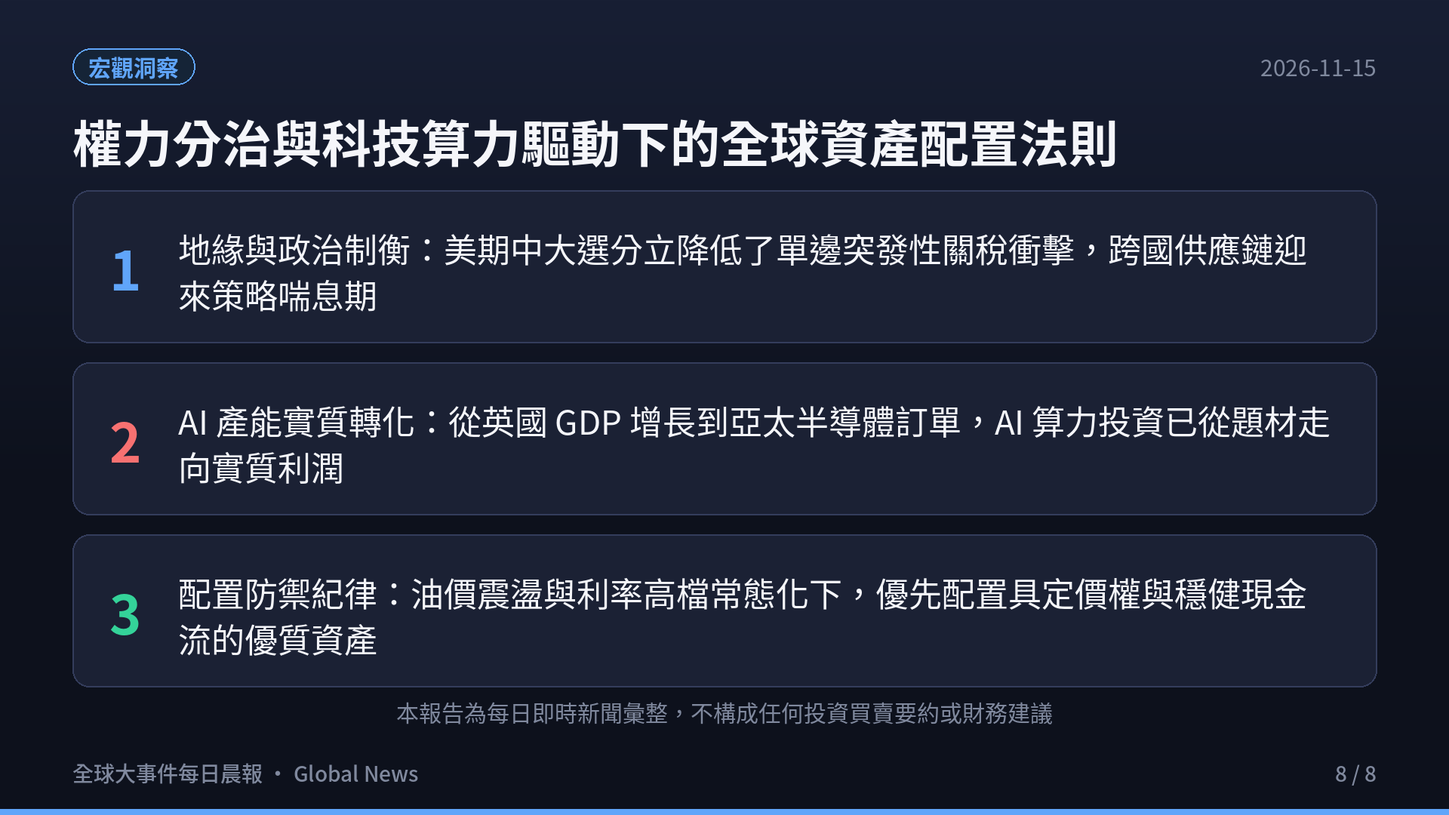
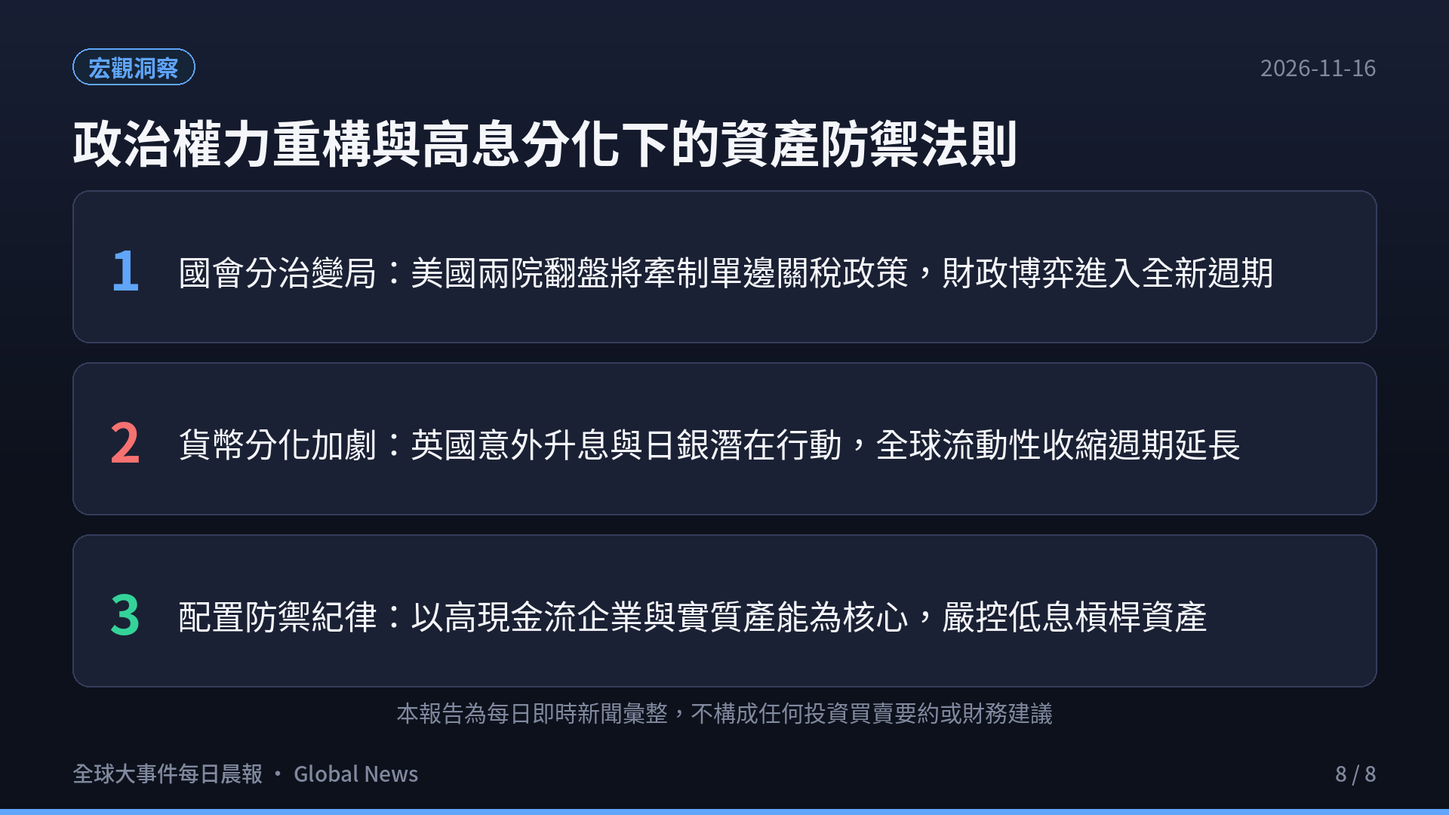
feat(blog): add global news daily report 2026-11-16 with slides and video

diff --git a/content/global-news/index.md b/content/global-news/index.md
@@ -1,26 +1,26 @@
 ---
-title: "全球大事件每日晨報 · 2026-11-15：美期中選國會分立・G7巴黎外長會晤・深圳APEC倒數・西班牙大罷工・十大經濟體全景"
+title: "全球大事件每日晨報 · 2026-11-16：美期中選藍潮翻盤兩院・英央行升息至4%・俄伊導彈密件曝光・加國千億預算"
 url: "/global-news/"
-date: 2026-11-15T05:30:00+08:00
+date: 2026-11-16T05:30:00+08:00
 draft: false
 image: cover.png
 cover: "https://ckw19810413.github.io/global-news/cover.png"
-description: "2026-11-15 全球重大事件深度解析：美洲期中大選國會分治、美中峰會前建立 AI 安全通報機制、G7 巴黎外長會議聚焦防務與航道安全、西班牙爆發 14 年首次全國總罷工、深圳籌備第 33 屆 APEC 峰會、英國 AI 資本支出帶動第三季 GDP 超預期增長 0.7%、COP31 安塔利亞氣候峰會談判轉型基金，以及全球前十大經濟體核心總體數據橫向評比。"
-tags: ["全球大事件", "國際局勢", "期中選舉", "APEC", "G7", "西班牙罷工", "AI投資", "總體經濟", "每日晨報", "地緣政治", "聯準會", "歐洲央行"]
+description: "2026-11-16 全球重大事件深度解析：美洲民主黨贏得期中大選奪回兩院、道瓊暴漲千點、英國央行升息至 4%、歐洲連環航班炸彈威脅排查、俄伊 90 具先進飛彈軍援密件曝光、加拿大公布 1510 億預算案、巴拉圭總統因銀行風暴請辭、亞洲製造業微幅回溫，以及全球前十大經濟體核心總體數據橫向評比。"
+tags: ["全球大事件", "國際局勢", "期中選舉", "美股", "英國升息", "歐洲航班", "俄伊密件", "荷姆茲海峽", "加拿大預算", "日銀升息", "總體經濟"]
 categories: ["國際局勢", "總體經濟"]
 aliases:
-  - "/blog/2026-11-15-global-news/"
-  - "/global-news/2026-11-15/"
+  - "/blog/2026-11-16-global-news/"
+  - "/global-news/2026-11-16/"
 ---
 
-> **觀測週期**：2026-11-15 晨間即時彙整  
-> **情報涵蓋**：全球各大洲（北美、歐洲、亞太/印太、中東、拉丁美洲、大洋洲）與全球前 10 大經濟體  
-> **核心來源**：各國政府公報、路透社（Reuters）、美聯社（AP）、英國衛報（The Guardian）、各國央行公報、IMF 經濟展望與 S&P Global 報告  
+> **觀測週期**：2026-11-16 晨間即時彙整  
+> **情報涵蓋**：全球各大洲（北美、歐洲、中東、亞洲/印太、拉美、大洋洲）與全球前 10 大經濟體  
+> **核心來源**：各國政府公報、路透社（Reuters）、美聯社（AP）、英國衛報（The Guardian）、各國央行公報與 S&P Global PMI 報告  
 > **定位宗旨**：以客觀數據、官方決策與供應鏈結構為準繩，剔除短期情緒噪音，提煉出真正驅動全球資金流向與地緣版圖重構的核心脈絡。
 
 <div style="margin: 2rem 0; border-radius: 12px; overflow: hidden; box-shadow: 0 4px 20px rgba(0,0,0,0.12); border: 1px solid rgba(128,128,128,0.2);">
   <div style="position: relative; padding-bottom: 56.25%; height: 0; overflow: hidden; background: #0f121c;">
-    <iframe src="https://www.youtube.com/embed/H_yaa3bq8DQ" title="2026-11-15 全球大事件每日晨報" style="position: absolute; top:0; left: 0; width: 100%; height: 100%; border: 0;" allow="accelerometer; autoplay; clipboard-write; encrypted-media; gyroscope; picture-in-picture; web-share" allowfullscreen></iframe>
+    <iframe src="https://www.youtube.com/embed/8dBGynLkzXU" title="2026-11-16 全球大事件每日晨報" style="position: absolute; top:0; left: 0; width: 100%; height: 100%; border: 0;" allow="accelerometer; autoplay; clipboard-write; encrypted-media; gyroscope; picture-in-picture; web-share" allowfullscreen></iframe>
   </div>
   <div style="background: rgba(0,0,0,0.03); padding: 10px 16px; font-size: 0.9rem; color: var(--card-text-color-secondary, #666); text-align: center; border-top: 1px solid rgba(128,128,128,0.15);">
     🎬 <strong>120 秒晨間快報影音動態版</strong>（含 AI 自然神經語音朗讀與背景配樂）
@@ -31,82 +31,81 @@ aliases:
 
 ## 🎯 今日全球前 6 大核心事件深度拆解
 
-![焦點 1：美國期中大選兩院分立，美中前瞻磋商AI安全機制](s02.png)
+![焦點 1：美國期中大選藍潮翻盤，民主黨奪回兩院控制權](s02.png)
 
-### 1. 美洲局勢與跨太平洋外交互動：美期中大選確立國會分治格局，美中在峰會前夕磋商 AI 事故通報機制
-- **國會分治格局確立與單邊極端法案受阻**：
-  - 美國期中大選計票塵埃落定，參眾兩院呈現權力分治與微弱多數平衡格局。這意味著未來兩年華府在極端單邊關稅、跨國貿易協定審查與激進財政赤字法案上將面臨實質立法掣肘。
-  - 華爾街股市與債券市場迅速重估風險溢價，長端美債殖利率回吐部分避險溢價，反映市場對極端政策不確定性降溫的寬慰。
-- **美中 AI 安全機制與峰會前瞻對話**：
-  - 在即將召開的亞太高層雙邊互動前，美中工作小組就人工智慧（AI）軍事防護與突發事件通報框架展開實質磋商，旨在降低高科技競爭與前沿演算法部署中的意外摩擦風險。
-  - 此舉為雙方經貿與供應鏈對話注入了務實的「風險護欄」，釋放跨太平洋戰略穩定的積極訊號。
-
----
-
-![焦點 2：G7外長巴黎聚焦地緣安全，西班牙爆發十四年首度總罷工](s03.png)
-
-### 2. 歐洲安全協調與社會結構摩擦：G7 外長齊聚巴黎磋商防務，西班牙爆發 14 年來首次全面大罷工
-- **G7 外長巴黎會晤與防務協作深化**：
-  - 七大工業國（G7）外長攜手巴西、沙烏地阿拉伯及烏克蘭高級代表在巴黎舉行高級安全會談，集中協調對中東航運走廊的聯合安全護航及歐洲關鍵基礎設施防護機制。
-  - 歐洲央行（ECB）總裁拉加德宣布將於 2027 年初卸任，提前拉開了歐洲央行最高決策層的接班競逐序幕，但貨幣政策短期維持限制性高息以壓抑通膨回潮。
-- **南歐居住成本壓力引發大罷工**：
-  - 西班牙遭遇 14 年來首次跨行業全國性總罷工，數十萬民眾走上街頭抗議房價與租金暴漲、實質薪資停滯以及公共醫療資源吃緊。
-  - 罷工使大眾交通與港口物流行程嚴重受阻，對即將舉行的提前大選選情產生直接衝擊，凸顯歐洲長期通膨黏性對民生基底的深層侵蝕。
+### 1. 美洲政局與資本市場：美國期中選舉藍潮掀天翻地覆，民主黨重奪兩院掌控權，道瓊狂飆千點
+- **兩院版圖大翻盤與行政掣肘**：
+  - 美國期中大選計票塵埃落定，民主黨成功掀起「藍色浪潮」，一舉擊敗共和黨，同時奪回參議院與眾議院的絕對多數席次。
+  - 川普總統面臨任期後兩年的重大國會掣肘，白宮發言人隨後表態願與新國會多數展開跨黨派合作。此結果大幅降低了單邊全面徵收高額行政關稅的極端立法風險。
+- **資本市場暴力狂歡與避險消退**：
+  - 華爾街股市迎來狂歡式反彈，道瓊工業指數單日暴漲逾 1,500 點；與此同時，地緣避險溢價迅速回吐，國際原油期貨價格重挫回落。
+  - 聯準會利率目標區間維持在 3.75%–4.00%，市場預期分裂國會將遏制過度擴張性的財政赤字刺激，減輕後續通膨二次抬頭的風險。
 
 ---
 
-![焦點 3：深圳即將主辦 APEC 峰會，印太高科技供應鏈展現韌性](s04.png)
+![焦點 2：英國央行升息至 4%，歐洲航班驚傳連環炸彈威脅](s03.png)
 
-### 3. 亞太經合盛會與高科技動能：深圳即將迎來第 33 屆 APEC 峰會，英國受 AI 投資拉動 Q3 GDP 增長 0.7%
-- **第 33 屆 APEC 峰會於深圳倒數啟幕**：
-  - 亞太經合組織（APEC）領袖會議將於 11 月 18 至 19 日在深圳隆重舉行。作為中國改革開放與前沿科技的核心樞紐，深圳將見證多國元首圍繞「亞太命運共同體、區域自由貿易與綠色數位轉型」展開深度談判。
-  - 中國藉此主場外交平台強化與東協、拉美及「全球南方」的新型夥伴關係，加速高技術綠色產能出海佈局。
-- **AI 算力投資化為實質 GDP 增長**：
-  - 最新經濟數據顯示，英國第三季 GDP 季增率達 **0.7%**（年化近 1.9%），超出市場普遍預期。主要增長引擎來自企業對雲端計算、專業諮詢與 AI 資料中心基礎建設的爆發式資本支出。
-  - 這印證了生成式 AI 投資正在從實驗室原型轉化為帶動現代服務業與生產力提升的實體動能。
-
----
-
-![焦點 4：國際油價於百元關卡震盪，安塔利亞 COP31 聚焦轉型融資](s05.png)
-
-### 4. 中東能源博弈與全球氣候議程：油價百元關卡高位震盪，COP31 聯合國氣候峰會安塔利亞爭奪綠色基金
-- **中東航運地緣溢價與能源供應博弈**：
-  - 荷姆茲海峽與紅海周邊的安全緊張態勢維持高檔，主要海運巨頭持續採取繞行好望角與額外保險加成措施。布蘭特原油價格在每桶 90 至 110 美元高位區間劇烈波動。
-  - 國際貨幣基金組織（IMF）警告，高能源成本使得全球 headline 通膨回落進程放緩，各國央行在 2026 年底前重啟降息週期的門檻顯著拉高。
-- **COP31 氣候大會聚焦新融資目標**：
-  - 聯合國氣候變化大會（COP31）在土耳其安塔利亞如火如荼展開，超過 190 國代表就後巴黎協定時期的「全球氣候金融集體量化新目標（NCQG）」進行激烈博弈。
-  - 發展中國家強烈呼籲已開發經濟體落實每年數千億美元的能源轉型基金與技術轉移承諾，碳邊境調整機制（CBAM）與全球碳定價標準成為焦點爭端。
+### 2. 歐洲貨幣與航空安全：英格蘭銀行升息一碼至 4.0%，全歐二十餘航班遭遇虛假炸彈威脅緊急排查
+- **英國央行逆勢緊縮打擊通膨**：
+  - 英國央行（Bank of England）在 11 月議息會議宣布將基準利率上調 25 個基點至 **4.0%**，以壓制最新反彈至 3.5% 的核心消費者物價指數（CPI）。
+  - 標普全球（S&P Global）數據顯示，企業在人工智慧（AI）與雲端科技的資本支出推動英國服務業 PMI 躍升至八個月新高 52.8，但服務業工資黏性仍促使央行維持強硬立場。
+- **歐洲民航遭遇系統性虛假警報衝擊**：
+  - 全歐洲境內超過 21 架次國際商業航班遭遇協同性質的連環炸彈威脅，多座主要國際機場被迫緊急暫停起降並引導客機實施跑道滑行隔離搜查。
+  - 歐盟交通運輸專員已緊急聯手各國情報與航空安全局展開跨國溯源調查。
 
 ---
 
-![焦點 5：全球前十大經濟體核心指標與趨勢](s06.png)
+![焦點 3：俄伊導彈軍援密件曝光，荷姆茲海峽受損船隻引戒備](s04.png)
 
-### 5. 全球前十大經濟體核心指標與趨勢橫向全景
+### 3. 中東防務與航運樞紐：烏情報曝俄向伊朗提供 90 具先進導向飛彈發射器，荷姆茲海峽受損船隻引發航運警戒
+- **俄伊戰略軍事技術合作文件外洩**：
+  - 烏克蘭情報部門獲取並經外媒確認的洩密防務文件顯示，俄羅斯已與伊朗達成協議，向德黑蘭提供 90 具先進 LMUR 直升機發射型精確導引飛彈系統，並持續提供軍用級衛星定位與目標偵察數據。
+  - 此舉被視為俄伊戰略夥伴關係的實質升級，引發美國五角大廈與中東盟邦對波斯灣軍事平衡的高度戒備。
+- **波斯灣與荷姆茲海峽航行警戒持續**：
+  - 伊朗伊斯蘭革命衛隊（IRGC）報告波斯灣荷姆茲海峽水域發生零星船隻受損事件，國際航運龍頭馬士基（Maersk）等持續啟動緊急應變規避指引，區域海上保險費率維持高檔。
 
-| 排名 | 國家 / 經濟體 | 核心總體經濟數據 / 最新指標 | 2026-11-15 即時動態與政策取向 | 全球產業鏈與市場意涵 |
+---
+
+![焦點 4：加拿大公布千億預算案，巴拉圭總統因銀行風暴請辭](s05.png)
+
+### 4. 美洲與拉美震盪：加拿大推出 1510 億產能擴張預算，巴拉圭爆發銀行擠兌危機總統培尼亞請辭
+- **加拿大 2026 年度聯邦預算拍板**：
+  - 加拿大財政部長商鵬飛（François-Philippe Champagne）在總理馬克·卡尼（Mark Carney）內閣下發表高達 1,510 億加幣的第二任期聯邦預算案。
+  - 預算核心著重於大規模拉動私人資本投資、改善國家生產力瓶頸，並緩解家庭生活成本壓力，同時為美加可能出現的新一輪貿易摩擦築起防禦緩衝。
+- **南美爆發金融擠兌引發政局崩盤**：
+  - 南美洲巴拉圭大型商業銀行突發性流動性崩潰，引發全境數百萬民眾恐慌性排隊擠兌與街頭混亂。
+  - 在眾議院即將通過彈劾案前夕，巴拉圭總統聖地牙哥·培尼亞（Santiago Peña）正式宣布辭職，南美新興市場主權風險溢價隨之上升。
+
+---
+
+![焦點 5：亞洲製造業景氣微幅回溫，日銀維持 1.25% 利率](s06.png)
+
+### 5. 亞洲工廠動能與印太安保：亞洲製造業獲科技需求支撐，日銀按兵不動醞釀升息，北韓試射防空導彈
+- **亞洲供應鏈展現韌性**：
+  - 日本綜合採購經理人指數（Composite PMI）錄得 52.1，寫下連續第 19 個月保持在擴張區間的穩健紀錄，科技與半導體周邊設備需求提供主要支撐。
+  - 中國 RatingDog / S&P 合作發布的民間製造業 PMI 穩守 50 榮枯線之上，儘管銅冶煉廠面臨副產品硫酸價格暴跌帶來的利潤擠壓，高技術產品外銷仍具支撐力。
+- **印太安全情勢與東北亞動態**：
+  - 日本央行在貨幣政策決議中以 8 比 1 投票結果維持基準利率在 1.25% 不變，但總裁植田和男再次暗示若物價符合預期，年底或 2027 年初將進一步實施貨幣政策正常化。
+  - 北韓官方宣布成功完成新型防空飛彈與巡弋飛彈的多模式導向性能測試，美韓軍事同盟啟動動態警戒應對。
+
+---
+
+![焦點 6：全球前十大經濟體核心指標與趨勢](s07.png)
+
+### 6. 全球前十大經濟體核心指標與趨勢橫向全景
+
+| 排名 | 國家 / 經濟體 | 核心總體經濟數據 / 最新指標 | 2026-11-16 即時動態與政策取向 | 全球產業鏈與市場意涵 |
 |:---:|:---|:---|:---|:---|
-| **1** | **美國 (USA)** | 基準利率 **3.75%–4.00%** · 通膨 **3.6%** | 期中大選兩院分治；美中磋商 AI 事故通報；美股科技板塊走揚 | 國會分立降低激進關稅衝擊，AI 資本支出維持強韌，長端殖利率重回基本面定價。 |
-| **2** | **中國 (China)** | 主辦深圳 **APEC** · 外銷動能穩健 | 深圳峰會啟幕在即，推進高科技出海與全球南方貿易互利 | 數位經濟與高端製造業產能展現抗逆力，內需刺激政策進入政策評估落地期。 |
-| **3** | **德國 (Germany)** | 歐洲央行存款利率 **2.50%** · 工業轉型 | 傳統車企加速向 AI 自駕與新電池轉型；參與 G7 巴黎防務協調 | 工業體系積極對沖高能源成本，深耕智慧自動化與綠色氫能基礎建設。 |
-| **4** | **日本 (Japan)** | 推進 **FOIP** 印太佈局 · 政策利率 **1.25%** | 高市內閣深化東南亞基建安全合作；日銀審慎評估進一步升息節奏 | 日圓套息交易處於動態再平衡，半導體材料與先進設備出口訂單持續攀升。 |
-| **5** | **印度 (India)** | GDP 預測成長 **6.8%** · 通膨 **5.1%** | 關鍵礦產與電子代工樞紐崛起；平衡 Quad 與多元大國關係 | 跨國供應鏈「China+1」最大受益者，內需人口紅利與基建投資動能強勁。 |
-| **6** | **英國 (UK)** | Q3 GDP **+0.7%** · 基準利率 **4.0%** | AI 雲端資本支出推動 GDP 超預期；英格蘭銀行維持審慎觀望 | 專業服務業與數位科技領跑歐洲，但冬季能源帳單壓力仍需央行維持防禦性高息。 |
-| **7** | **法國 (France)** | 歐洲央行存款利率 **2.50%** · G7 會晤主辦 | 馬克宏政府力推歐洲防務戰略自主；關注拉加德後續接班格局 | 聚焦高階航太、核能與綠色技術，積極在歐盟預算與主權債務協商中爭取主導。 |
-| **8** | **義大利 (Italy)** | 歐元區統一利率 **2.50%** · 國債監控 | 歐盟復甦基金落實率提升；綠色基建與地中海能源管線推進 | 嚴格維持財政紀律以防國債利差擴大，得益於地中海能源過渡樞紐戰略定位。 |
-| **9** | **加拿大 (Canada)** | 1510 億產能預算 · 戰略礦產開發 | 卡尼內閣推進生產力提振專案；防範美選後北美貿易協定變更 | 關鍵鋰、鎳等戰略金屬與乾淨能源吸引美歐長約，築高貿易防護緩衝。 |
-| **10** | **澳洲 (Australia)** | 基準利率 **4.35%** · 大宗商品順差 | 澳洲央行維持限制性高息；大宗鐵礦與天然氣出口強勁；參與 COP31 | 能源轉型關鍵原料供應大國，商品貿易順差為抗擊通膨提供堅實後盾。 |
-
----
-
-![焦點 6：歐陸抗壓轉型與資源國動能](s07.png)
-
-### 6. 歐陸抗壓轉型與資源國韌性：德法工業調整推進，加澳資源紅利對沖全球宏觀震盪
-- **歐洲核心工業軸心的智慧韌性**：
-  - 德國與法國作為歐元區雙引擎，在面對高利率與高能源成本的常態化環境下，正加速將國家資源向人工智慧工業應用、電網智慧升級與國防安全自主化集中。
-  - 歐洲央行將在 12 月議息會議面臨拉加德任期尾聲的關鍵決策，市場預期限制性利率將延續至 2027 年年中。
-- **大宗資源國家的逆週期防禦力**：
-  - 加拿大推出的 1,510 億預算案聚焦於重塑本國製造業人均生產力，並在北美供應鏈中牢牢鎖定關鍵礦物優勢。
-  - 澳洲則透過向印太盟邦穩定供應液化天然氣（LNG）與稀有金屬，維持了亮眼的商品貿易順差，為全球流動性收縮期提供了穩健的避險資產錨點。
+| **1** | **美國 (USA)** | 基準利率 **3.75%–4.00%** · 通膨 **3.7%** | 期中大選藍潮奪回兩院；道瓊暴漲 1500 點；川普承諾與國會合作 | 國會分治阻絕激進單邊關稅風險，美股風險溢價快速重估，長端殖利率壓力略減。 |
+| **2** | **中國 (China)** | 民間 PMI **> 50** · 銅冶煉利潤承壓 | 科技製造業外銷訂單維持動能；副產品價格下跌壓抑冶煉業；財政基建持續落地 | 科技與新能源供應鏈維持韌性，製造業加速向高附加價值端升級。 |
+| **3** | **德國 (Germany)** | 歐洲央行存款利率 **2.50%** · 工業疲軟 | 歐元區航班炸彈威脅衝擊交通；ECB 利率按兵不動；汽車供應鏈轉型陣痛 | 德國作為歐洲工業龍頭持續受制於高能源成本與地緣分割，依賴新基建帶動。 |
+| **4** | **日本 (Japan)** | 政策利率維持 **1.25%** · 綜合 PMI **52.1** | 連續 19 個月維持景氣擴張；日銀釋放年底進一步升息預期；AI 晶片設備出口穩健 | 日圓匯率築底反彈，日銀正常化進程持續牽引全球套息交易（Carry Trade）倉位調整。 |
+| **5** | **印度 (India)** | GDP 預測成長 **6.8%** · 通膨率 **5.0%** | Quad 關鍵礦產與半導體產線深化；新德里選務抗議維安警戒；內需消費強勁 | 作為全球供應鏈多元化核心樞紐，資本流入動能強勁，製造業產能迅速擴增。 |
+| **6** | **英國 (UK)** | 基準利率升至 **4.0%** · 服務業 PMI **52.8** | 英國央行升息一碼應對 3.5% 通膨；企業 AI 支出爆發帶動服務業八個月新高 | 服務業需求展現高韌性，但高利率對地產與按揭貸款家庭造成進一步借貸成本壓力。 |
+| **7** | **法國 (France)** | 歐洲央行存款利率 **2.50%** · 罷工餘波 | 生活成本高漲引發全國黑色星期四抗議；航空炸彈警報波及巴黎等樞紐機場 | 社會福利與財政緊縮政策博弈加劇，公共部門預算整頓面臨政治民意反彈。 |
+| **8** | **義大利 (Italy)** | 歐元區統一利率 **2.50%** · 國債監控 | 歐元區降息預期暫緩；國債利差持穩；歐盟綠色轉型與基礎建設專案推進 | 財政審查嚴格，對歐洲央行貨幣緊縮節奏極度敏感，聚焦高收益基建回報。 |
+| **9** | **加拿大 (Canada)** | 1510 億聯邦預算 · 刺激生產力 | 財長商鵬飛發表卡尼內閣預算案；拉動私人資本投資防範美加貿易變數 | 擴張性預算旨在提升人均生產力，並在美選後對北美自由貿易協定進行動態預防。 |
+| **10** | **澳洲 (Australia)** | 基準利率 **4.35%** · 商品貿易順差 | 澳洲央行維持限制性高息；大宗金屬與天然氣出口穩定；籌備 COP31 氣候峰會 | 能源過渡與關鍵礦產吸引跨國資本，但服務業通膨黏性限制央行短期降息空間。 |
 
 ---
 
@@ -114,15 +113,15 @@ aliases:
 
 ![今日重點總結](s08.png)
 
-1. **政治制衡確立與地緣尾部風險降溫**：
-   - 美國期中大選兩院分治的結果，排除了短期內出現極端單邊行政命令或顛覆性關稅法案的可能性，為跨國供應鏈爭取到了至少兩年的策略調整喘息窗口。
-   - 美中啟動 AI 安全機制磋商，顯示科技領域的激烈競爭正在建立底線風險護欄，市場系統性風險溢價有助於持續收斂。
-2. **AI 算力投資的「實質產能兌現期」到來**：
-   - 英國 Q3 GDP 增長由 AI 與雲端資本支出驅動的案例表明，人工智慧對宏觀經濟的影響已跨越純概念炒作階段，正式邁入「資本開支推動實質生產力」的收穫期。
-   - 投資者應重點跟蹤真正具備企業級落地場景、高現金流回報與技術壁壘的基礎設施標的。
-3. **長期高息環境下的資產配置鐵律**：
-   - 儘管市場預期極端通膨不再，但能源與供應鏈摩擦成本讓全球利率難以迅速重回零利率時代。「Higher for Longer」仍是當前的主旋律。
-   - 資產配置宜堅守「高確定性自由現金流、健康資產負債表、定價權優勢」三大防禦護城河，避免過度押注高槓桿流動性資產。
+1. **大選投票與地緣變數引發的全球資產重定價**：
+   - 美國期中大選結果將直接重塑華府未來兩年的財政與外交政策，尤其在對伊軍事決策與關稅法案上的行政掣肘。
+   - 伴隨 OPEC+ 產量凍結、荷姆茲海峽風險溢價持續，油價維持高檔將成為各國央行延後降息或重啟緊縮的催化劑。
+2. **通膨黏性與社會結構性矛盾爆發**：
+   - 德國 200 多人被捕的青年抗爭與法國製造業收縮，再次揭示高生活成本對歐美民生結構造成的持久性創傷。
+   - 工廠端投入成本以五月以來最快速度反彈，反映全球供應鏈在地緣分割與脫鉤下的「結構性摩擦成本」難以在短期內消除。
+3. **高息持久戰下的資產配置防禦紀律**：
+   - 10 年期美債殖利率維持在 4.9% 附近，高無風險利率代表一切依賴低息流動性的商業模式都將加速接受壓力測試。
+   - 投資者應堅守「高確定性現金流、低財務槓桿、具備技術與定價護城河」的三大原則，保持彈性資產配置。
 
 ---
 

diff --git a/content/blog/2026-11-16-global-news/index.md b/content/blog/2026-11-16-global-news/index.md
@@ -1,0 +1,139 @@
+---
+title: "全球大事件每日晨報 · 2026-11-16：美期中選藍潮翻盤兩院・英央行升息至4%・俄伊導彈密件曝光・加國千億預算"
+url: "/global-news/"
+date: 2026-11-16T05:30:00+08:00
+draft: false
+image: cover.png
+cover: "https://ckw19810413.github.io/global-news/cover.png"
+description: "2026-11-16 全球重大事件深度解析：美洲民主黨贏得期中大選奪回兩院、道瓊暴漲千點、英國央行升息至 4%、歐洲連環航班炸彈威脅排查、俄伊 90 具先進飛彈軍援密件曝光、加拿大公布 1510 億預算案、巴拉圭總統因銀行風暴請辭、亞洲製造業微幅回溫，以及全球前十大經濟體核心總體數據橫向評比。"
+tags: ["全球大事件", "國際局勢", "期中選舉", "美股", "英國升息", "歐洲航班", "俄伊密件", "荷姆茲海峽", "加拿大預算", "日銀升息", "總體經濟"]
+categories: ["國際局勢", "總體經濟"]
+aliases:
+  - "/blog/2026-11-16-global-news/"
+  - "/global-news/2026-11-16/"
+---
+
+> **觀測週期**：2026-11-16 晨間即時彙整  
+> **情報涵蓋**：全球各大洲（北美、歐洲、中東、亞洲/印太、拉美、大洋洲）與全球前 10 大經濟體  
+> **核心來源**：各國政府公報、路透社（Reuters）、美聯社（AP）、英國衛報（The Guardian）、各國央行公報與 S&P Global PMI 報告  
+> **定位宗旨**：以客觀數據、官方決策與供應鏈結構為準繩，剔除短期情緒噪音，提煉出真正驅動全球資金流向與地緣版圖重構的核心脈絡。
+
+<div style="margin: 2rem 0; border-radius: 12px; overflow: hidden; box-shadow: 0 4px 20px rgba(0,0,0,0.12); border: 1px solid rgba(128,128,128,0.2);">
+  <div style="position: relative; padding-bottom: 56.25%; height: 0; overflow: hidden; background: #0f121c;">
+    <iframe src="https://www.youtube.com/embed/8dBGynLkzXU" title="2026-11-16 全球大事件每日晨報" style="position: absolute; top:0; left: 0; width: 100%; height: 100%; border: 0;" allow="accelerometer; autoplay; clipboard-write; encrypted-media; gyroscope; picture-in-picture; web-share" allowfullscreen></iframe>
+  </div>
+  <div style="background: rgba(0,0,0,0.03); padding: 10px 16px; font-size: 0.9rem; color: var(--card-text-color-secondary, #666); text-align: center; border-top: 1px solid rgba(128,128,128,0.15);">
+    🎬 <strong>120 秒晨間快報影音動態版</strong>（含 AI 自然神經語音朗讀與背景配樂）
+  </div>
+</div>
+
+---
+
+## 🎯 今日全球前 6 大核心事件深度拆解
+
+![焦點 1：美國期中大選藍潮翻盤，民主黨奪回兩院控制權](s02.png)
+
+### 1. 美洲政局與資本市場：美國期中選舉藍潮掀天翻地覆，民主黨重奪兩院掌控權，道瓊狂飆千點
+- **兩院版圖大翻盤與行政掣肘**：
+  - 美國期中大選計票塵埃落定，民主黨成功掀起「藍色浪潮」，一舉擊敗共和黨，同時奪回參議院與眾議院的絕對多數席次。
+  - 川普總統面臨任期後兩年的重大國會掣肘，白宮發言人隨後表態願與新國會多數展開跨黨派合作。此結果大幅降低了單邊全面徵收高額行政關稅的極端立法風險。
+- **資本市場暴力狂歡與避險消退**：
+  - 華爾街股市迎來狂歡式反彈，道瓊工業指數單日暴漲逾 1,500 點；與此同時，地緣避險溢價迅速回吐，國際原油期貨價格重挫回落。
+  - 聯準會利率目標區間維持在 3.75%–4.00%，市場預期分裂國會將遏制過度擴張性的財政赤字刺激，減輕後續通膨二次抬頭的風險。
+
+---
+
+![焦點 2：英國央行升息至 4%，歐洲航班驚傳連環炸彈威脅](s03.png)
+
+### 2. 歐洲貨幣與航空安全：英格蘭銀行升息一碼至 4.0%，全歐二十餘航班遭遇虛假炸彈威脅緊急排查
+- **英國央行逆勢緊縮打擊通膨**：
+  - 英國央行（Bank of England）在 11 月議息會議宣布將基準利率上調 25 個基點至 **4.0%**，以壓制最新反彈至 3.5% 的核心消費者物價指數（CPI）。
+  - 標普全球（S&P Global）數據顯示，企業在人工智慧（AI）與雲端科技的資本支出推動英國服務業 PMI 躍升至八個月新高 52.8，但服務業工資黏性仍促使央行維持強硬立場。
+- **歐洲民航遭遇系統性虛假警報衝擊**：
+  - 全歐洲境內超過 21 架次國際商業航班遭遇協同性質的連環炸彈威脅，多座主要國際機場被迫緊急暫停起降並引導客機實施跑道滑行隔離搜查。
+  - 歐盟交通運輸專員已緊急聯手各國情報與航空安全局展開跨國溯源調查。
+
+---
+
+![焦點 3：俄伊導彈軍援密件曝光，荷姆茲海峽受損船隻引戒備](s04.png)
+
+### 3. 中東防務與航運樞紐：烏情報曝俄向伊朗提供 90 具先進導向飛彈發射器，荷姆茲海峽受損船隻引發航運警戒
+- **俄伊戰略軍事技術合作文件外洩**：
+  - 烏克蘭情報部門獲取並經外媒確認的洩密防務文件顯示，俄羅斯已與伊朗達成協議，向德黑蘭提供 90 具先進 LMUR 直升機發射型精確導引飛彈系統，並持續提供軍用級衛星定位與目標偵察數據。
+  - 此舉被視為俄伊戰略夥伴關係的實質升級，引發美國五角大廈與中東盟邦對波斯灣軍事平衡的高度戒備。
+- **波斯灣與荷姆茲海峽航行警戒持續**：
+  - 伊朗伊斯蘭革命衛隊（IRGC）報告波斯灣荷姆茲海峽水域發生零星船隻受損事件，國際航運龍頭馬士基（Maersk）等持續啟動緊急應變規避指引，區域海上保險費率維持高檔。
+
+---
+
+![焦點 4：加拿大公布千億預算案，巴拉圭總統因銀行風暴請辭](s05.png)
+
+### 4. 美洲與拉美震盪：加拿大推出 1510 億產能擴張預算，巴拉圭爆發銀行擠兌危機總統培尼亞請辭
+- **加拿大 2026 年度聯邦預算拍板**：
+  - 加拿大財政部長商鵬飛（François-Philippe Champagne）在總理馬克·卡尼（Mark Carney）內閣下發表高達 1,510 億加幣的第二任期聯邦預算案。
+  - 預算核心著重於大規模拉動私人資本投資、改善國家生產力瓶頸，並緩解家庭生活成本壓力，同時為美加可能出現的新一輪貿易摩擦築起防禦緩衝。
+- **南美爆發金融擠兌引發政局崩盤**：
+  - 南美洲巴拉圭大型商業銀行突發性流動性崩潰，引發全境數百萬民眾恐慌性排隊擠兌與街頭混亂。
+  - 在眾議院即將通過彈劾案前夕，巴拉圭總統聖地牙哥·培尼亞（Santiago Peña）正式宣布辭職，南美新興市場主權風險溢價隨之上升。
+
+---
+
+![焦點 5：亞洲製造業景氣微幅回溫，日銀維持 1.25% 利率](s06.png)
+
+### 5. 亞洲工廠動能與印太安保：亞洲製造業獲科技需求支撐，日銀按兵不動醞釀升息，北韓試射防空導彈
+- **亞洲供應鏈展現韌性**：
+  - 日本綜合採購經理人指數（Composite PMI）錄得 52.1，寫下連續第 19 個月保持在擴張區間的穩健紀錄，科技與半導體周邊設備需求提供主要支撐。
+  - 中國 RatingDog / S&P 合作發布的民間製造業 PMI 穩守 50 榮枯線之上，儘管銅冶煉廠面臨副產品硫酸價格暴跌帶來的利潤擠壓，高技術產品外銷仍具支撐力。
+- **印太安全情勢與東北亞動態**：
+  - 日本央行在貨幣政策決議中以 8 比 1 投票結果維持基準利率在 1.25% 不變，但總裁植田和男再次暗示若物價符合預期，年底或 2027 年初將進一步實施貨幣政策正常化。
+  - 北韓官方宣布成功完成新型防空飛彈與巡弋飛彈的多模式導向性能測試，美韓軍事同盟啟動動態警戒應對。
+
+---
+
+![焦點 6：全球前十大經濟體核心指標與趨勢](s07.png)
+
+### 6. 全球前十大經濟體核心指標與趨勢橫向全景
+
+| 排名 | 國家 / 經濟體 | 核心總體經濟數據 / 最新指標 | 2026-11-16 即時動態與政策取向 | 全球產業鏈與市場意涵 |
+|:---:|:---|:---|:---|:---|
+| **1** | **美國 (USA)** | 基準利率 **3.75%–4.00%** · 通膨 **3.7%** | 期中大選藍潮奪回兩院；道瓊暴漲 1500 點；川普承諾與國會合作 | 國會分治阻絕激進單邊關稅風險，美股風險溢價快速重估，長端殖利率壓力略減。 |
+| **2** | **中國 (China)** | 民間 PMI **> 50** · 銅冶煉利潤承壓 | 科技製造業外銷訂單維持動能；副產品價格下跌壓抑冶煉業；財政基建持續落地 | 科技與新能源供應鏈維持韌性，製造業加速向高附加價值端升級。 |
+| **3** | **德國 (Germany)** | 歐洲央行存款利率 **2.50%** · 工業疲軟 | 歐元區航班炸彈威脅衝擊交通；ECB 利率按兵不動；汽車供應鏈轉型陣痛 | 德國作為歐洲工業龍頭持續受制於高能源成本與地緣分割，依賴新基建帶動。 |
+| **4** | **日本 (Japan)** | 政策利率維持 **1.25%** · 綜合 PMI **52.1** | 連續 19 個月維持景氣擴張；日銀釋放年底進一步升息預期；AI 晶片設備出口穩健 | 日圓匯率築底反彈，日銀正常化進程持續牽引全球套息交易（Carry Trade）倉位調整。 |
+| **5** | **印度 (India)** | GDP 預測成長 **6.8%** · 通膨率 **5.0%** | Quad 關鍵礦產與半導體產線深化；新德里選務抗議維安警戒；內需消費強勁 | 作為全球供應鏈多元化核心樞紐，資本流入動能強勁，製造業產能迅速擴增。 |
+| **6** | **英國 (UK)** | 基準利率升至 **4.0%** · 服務業 PMI **52.8** | 英國央行升息一碼應對 3.5% 通膨；企業 AI 支出爆發帶動服務業八個月新高 | 服務業需求展現高韌性，但高利率對地產與按揭貸款家庭造成進一步借貸成本壓力。 |
+| **7** | **法國 (France)** | 歐洲央行存款利率 **2.50%** · 罷工餘波 | 生活成本高漲引發全國黑色星期四抗議；航空炸彈警報波及巴黎等樞紐機場 | 社會福利與財政緊縮政策博弈加劇，公共部門預算整頓面臨政治民意反彈。 |
+| **8** | **義大利 (Italy)** | 歐元區統一利率 **2.50%** · 國債監控 | 歐元區降息預期暫緩；國債利差持穩；歐盟綠色轉型與基礎建設專案推進 | 財政審查嚴格，對歐洲央行貨幣緊縮節奏極度敏感，聚焦高收益基建回報。 |
+| **9** | **加拿大 (Canada)** | 1510 億聯邦預算 · 刺激生產力 | 財長商鵬飛發表卡尼內閣預算案；拉動私人資本投資防範美加貿易變數 | 擴張性預算旨在提升人均生產力，並在美選後對北美自由貿易協定進行動態預防。 |
+| **10** | **澳洲 (Australia)** | 基準利率 **4.35%** · 商品貿易順差 | 澳洲央行維持限制性高息；大宗金屬與天然氣出口穩定；籌備 COP31 氣候峰會 | 能源過渡與關鍵礦產吸引跨國資本，但服務業通膨黏性限制央行短期降息空間。 |
+
+---
+
+## 💡 總結與投資者生存指南
+
+![今日重點總結](s08.png)
+
+1. **大選投票與地緣變數引發的全球資產重定價**：
+   - 美國期中大選結果將直接重塑華府未來兩年的財政與外交政策，尤其在對伊軍事決策與關稅法案上的行政掣肘。
+   - 伴隨 OPEC+ 產量凍結、荷姆茲海峽風險溢價持續，油價維持高檔將成為各國央行延後降息或重啟緊縮的催化劑。
+2. **通膨黏性與社會結構性矛盾爆發**：
+   - 德國 200 多人被捕的青年抗爭與法國製造業收縮，再次揭示高生活成本對歐美民生結構造成的持久性創傷。
+   - 工廠端投入成本以五月以來最快速度反彈，反映全球供應鏈在地緣分割與脫鉤下的「結構性摩擦成本」難以在短期內消除。
+3. **高息持久戰下的資產配置防禦紀律**：
+   - 10 年期美債殖利率維持在 4.9% 附近，高無風險利率代表一切依賴低息流動性的商業模式都將加速接受壓力測試。
+   - 投資者應堅守「高確定性現金流、低財務槓桿、具備技術與定價護城河」的三大原則，保持彈性資產配置。
+
+---
+
+### ☕ 支持與精選推薦
+
+如果你覺得這份每日晨報對你的宏觀視野與決策有實質幫助，歡迎透過以下方式支持我們持續產出深度內容：
+
+- ☕ **請我喝杯咖啡**：[Ko-fi 小費贊助 (ytstories0413)](https://ko-fi.com/ytstories0413) 或 [Ko-fi 贊助 (slashman413)](https://ko-fi.com/slashman413)（支持每日自動化爬蟲、語音合成與雲端運算）
+- 📚 **數位產品與高人效生產力工具**：
+  - [Gumroad 數位商品專區](https://slashmaster6.gumroad.com/)：收錄精選 AI Prompt 庫、生產力自動化工作流與實戰腳本
+  - [SlashmanTools 免費 Web 工具集](https://slashmantools.us/)：Token 成本計算器、顯存預估、開源 AI 工具導航
+- 📖 **精選經典閱讀推薦**：
+  - [《晶片戰爭》（Chip War）](https://www.amazon.com/dp/059371671X?tag=ytstories0413-20)：理解全球晶片霸權與印太供應鏈重組的必讀經典
+  - [《原子習慣》— 細微改變帶來巨大成就](https://www.books.com.tw/products/0010792915)
+  - [《人生的智慧》— 叔本華處世哲學經典](https://www.books.com.tw/products/0010613113)
